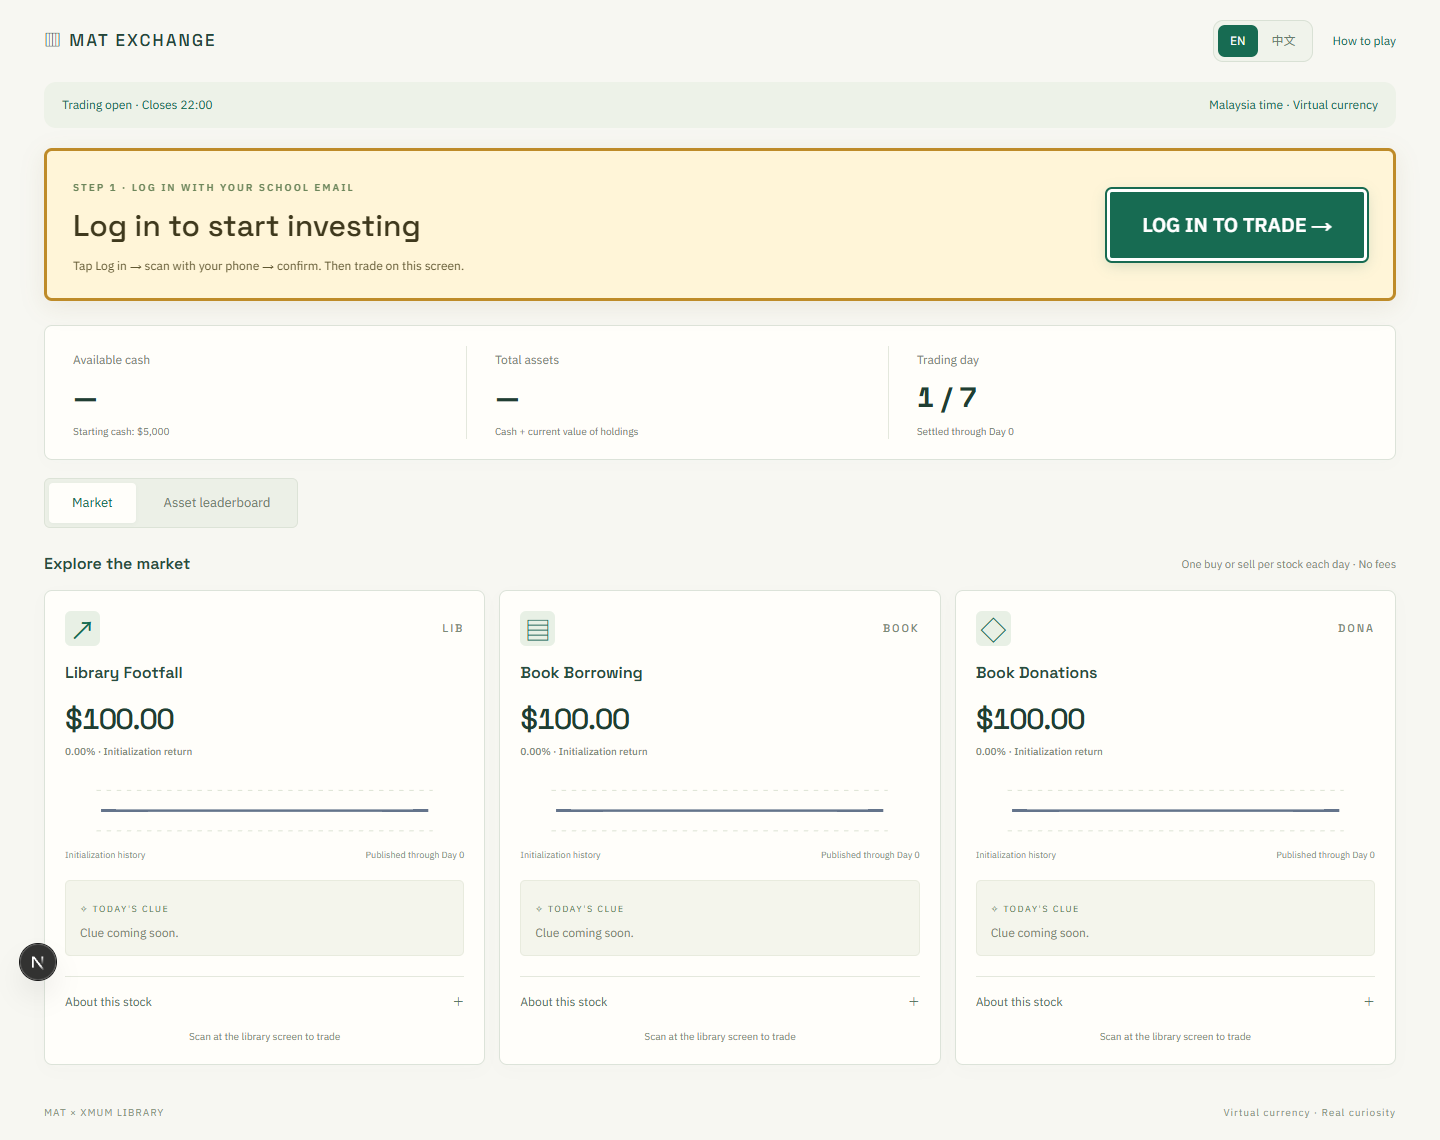
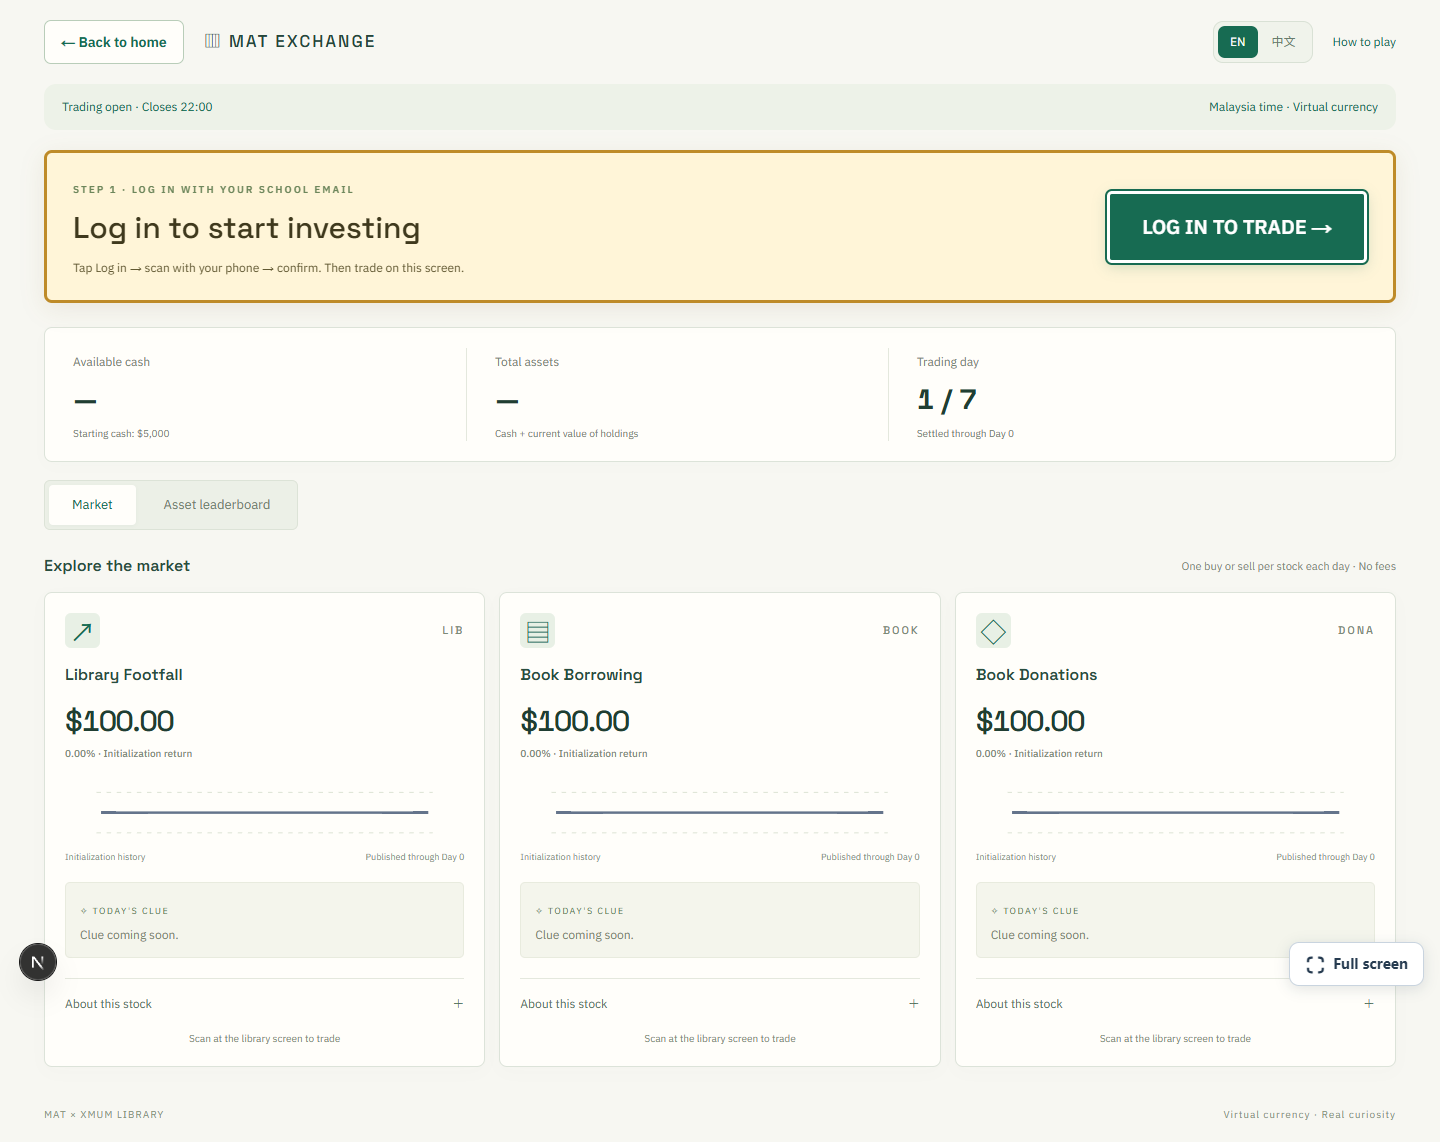
feat: Enhance market navigation and idle handling with new features and improvements

diff --git a/src/app/stock-market/live-market.tsx b/src/app/stock-market/live-market.tsx
@@ -33,12 +33,16 @@ export default function LiveMarket({ onReturnHome }: { onReturnHome?: () => void
   const [quantity, setQuantity] = useState("1");
   const [receipt, setReceipt] = useState<MarketTrade | null>(null);
   const [resultSeconds, setResultSeconds] = useState(10);
+  const [pairSeconds, setPairSeconds] = useState(60);
   const dialog = useRef<HTMLDialogElement>(null);
   const sessionId = useRef<string | null>(null);
   const pairedSession = useRef<string | null>(null);
   const inFlight = useRef(false);
   const refreshInFlight = useRef(false);
   const revision = useRef(0);
+  const pairingScreen = useRef(false);
+  const pairDeadline = useRef<number | null>(null);
+  const finishing = useRef(false);
   const mounted = useRef(false);
   const ready = useRef(false);
   const bootstrap = useRef<Promise<unknown> | null>(null);
@@ -59,6 +63,8 @@ export default function LiveMarket({ onReturnHome }: { onReturnHome?: () => void
       if (!mounted.current || !ready.current || currentRevision !== revision.current) return;
       setState(value); setConnected(true);
       if (value.portfolio) {
+        pairingScreen.current = false;
+        pairDeadline.current = null;
         if (pairedSession.current !== value.portfolio.sessionId) {
           pairedSession.current = value.portfolio.sessionId;
           // Scanning on a phone is not a touch on the trading screen.
@@ -69,6 +75,9 @@ export default function LiveMarket({ onReturnHome }: { onReturnHome?: () => void
         setPair(null);
         setModal(current => current === "pair" ? null : current);
       } else if (value.pairing !== "waiting") {
+        // Keep an expired pairing on screen until the bounded pairing timeout
+        // handles cleanup/navigation, rather than silently closing its dialog.
+        if (pairingScreen.current) return;
         if (sessionId.current) {
           setError(pairedSession.current ? "Your session ended. Log in again to continue." : "This login code is no longer active. Tap Log in to try again.");
           sessionId.current = null;
@@ -99,6 +108,10 @@ export default function LiveMarket({ onReturnHome }: { onReturnHome?: () => void
     else if (!modal) dialog.current?.close();
   }, [modal]);
   const finish = useCallback(async () => {
+    if (finishing.current) return;
+    finishing.current = true;
+    pairingScreen.current = false;
+    pairDeadline.current = null;
     // Remove personal information immediately even if the network is unavailable.
     ready.current = false;
     revision.current += 1;
@@ -109,13 +122,15 @@ export default function LiveMarket({ onReturnHome }: { onReturnHome?: () => void
     try { await request({ action: "end", session_id: id }); sessionId.current = null; } catch { /* server session still expires after 15 minutes */ }
     if (returnHome.current) returnHome.current(); else router.replace("/");
   }, [request, router]);
-  const cancelPair = useCallback(async (expired = false) => {
+  const cancelPair = useCallback(async () => {
     if (inFlight.current) return;
     inFlight.current = true; setBusy(true);
     revision.current += 1;
+    pairingScreen.current = false;
+    pairDeadline.current = null;
     const id = sessionId.current;
     setPair(null); setModal(null);
-    setError(expired ? "QR expired. Tap Log in to get a new code." : "");
+    setError("");
     window.dispatchEvent(new Event("mathweek:activity"));
     try { await request({ action: "end", session_id: id }); sessionId.current = null; }
     catch (e) { setError(e instanceof Error ? e.message : "Unable to cancel. Please retry."); }
@@ -123,10 +138,15 @@ export default function LiveMarket({ onReturnHome }: { onReturnHome?: () => void
   }, [request]);
   useEffect(() => {
     if (modal !== "pair" || !pair) return;
-    // Allow the final confirmation poll to finish before expiring the QR.
-    const timer = setTimeout(() => void cancelPair(true), Math.max(0, Date.parse(pair.expiresAt) - Date.now()) + 3000);
-    return () => clearTimeout(timer);
-  }, [modal, pair, cancelPair]);
+    const timer = setInterval(() => {
+      const deadline = pairDeadline.current;
+      if (deadline === null) return;
+      const left = Math.max(0, Math.ceil((deadline - Date.now()) / 1000));
+      setPairSeconds(left);
+      if (!left) { clearInterval(timer); void finish(); }
+    }, 250);
+    return () => clearInterval(timer);
+  }, [modal, pair, finish]);
   const portfolio = connected ? state?.portfolio : null;
   const used = portfolio?.trades.filter(trade => trade.day === state?.day).map(trade => trade.code) ?? [];
   useEffect(() => {
@@ -143,10 +163,19 @@ export default function LiveMarket({ onReturnHome }: { onReturnHome?: () => void
     if (inFlight.current) return;
     inFlight.current = true; setBusy(true); setError("");
     revision.current += 1;
+    pairingScreen.current = true;
+    pairDeadline.current = null;
     setPair(null); setModal("pair");
     window.dispatchEvent(new Event("mathweek:activity"));
-    try { const result = await request({ action: "pair" }); sessionId.current = result.sessionId; setPair(result); }
-    catch (e) { setModal(null); setError((e as Error).message); }
+    try {
+      const result = await request({ action: "pair" });
+      sessionId.current = result.sessionId;
+      const expiresAt = new Date(Math.min(Date.parse(result.expiresAt), Date.now() + 60000)).toISOString();
+      pairDeadline.current = Date.parse(expiresAt);
+      setPairSeconds(Math.max(0, Math.ceil((Date.parse(expiresAt) - Date.now()) / 1000)));
+      setPair({ ...result, expiresAt });
+    }
+    catch (e) { pairingScreen.current = false; setModal(null); setError((e as Error).message); }
     finally { inFlight.current = false; setBusy(false); }
   };
   const openOrder = (code: Code, side: "buy" | "sell") => {
@@ -181,7 +210,7 @@ export default function LiveMarket({ onReturnHome }: { onReturnHome?: () => void
   };
   const status = !connected ? t("Connecting to market…", "正在连接市场…") : state?.phase === "open" ? t(`Trading open · Closes ${state.close}`, `交易中 · ${state.close}截止`) : state?.phase === "ended" ? t("Market closed · Final standings", "活动结束 · 最终排名") : state?.phase === "paused" ? t("Trading temporarily paused", "交易暂时暂停") : state?.phase === "upcoming" ? t("Trading opens at 09:00", "09:00开始交易") : t("Trading closed · Prices settled", "今日交易结束 · 已结算");
   return <div className={`${s.page} ${s.embedded}`}>
-    <IdleRedirect seconds={60} enabled={modal !== "pair" && !busy} onIdle={() => void finish()} />
+    <IdleRedirect seconds={60} onIdle={() => void finish()} />
     <main className={s.main}>
       <div className={s.terminalTop}><nav aria-label={t("Market navigation", "市场导航")}><button type="button" className={s.homeButton} disabled={busy} onClick={() => void finish()}>{t("← Back to home", "← 返回主页")}</button></nav><span className={s.terminalBrand}>▥ MAT EXCHANGE</span><div className={s.languages}><button aria-pressed={!zh} onClick={() => setZh(false)}>EN</button><button aria-pressed={zh} onClick={() => setZh(true)}>中文</button></div><button className={s.quiet} onClick={() => setModal("guide")}>{t("How to play", "玩法说明")}</button></div>
       <div className={s.terminalStatus}><span>{status}</span><span>{t("Malaysia time · Virtual currency", "马来西亚时间 · 虚拟资金")}</span></div>
@@ -219,7 +248,7 @@ export default function LiveMarket({ onReturnHome }: { onReturnHome?: () => void
     <dialog ref={dialog} className={`${s.modal} ${modal === "pair" ? s.pairModal : ""}`} onClose={event => event.stopPropagation()} onCancel={event => { event.preventDefault(); event.stopPropagation(); if (busy) return; if (modal === "pair") void cancelPair(); else setModal(null); }}>
       <button className={s.close} disabled={busy} aria-label={t("Close", "关闭")} onClick={() => modal === "pair" ? void cancelPair() : setModal(null)}>×</button>
       {modal === "guide" && <><span className={s.eyebrow}>MAT STOCK MARKET</span><h2>{t("Start small. Think ahead.", "从观察开始。")}</h2><p>{t("Start with $5,000 virtual cash and no holdings. Read the clues, buy or sell at the library, and compare your total assets over seven days.", "每人初始$5,000、零持仓。阅读提示，在图书馆买卖，七天后按总资产排名。")}</p><ol><li>{t("One buy or sell per stock each day. Whole units only, no fees.", "每只股票每天一次买入或卖出，整数单位，无手续费。")}</li><li>{t("No borrowing, short selling or transfers. Doing nothing keeps your holdings.", "不可透支、做空或转账，不操作则继续持有。")}</li><li>{t("Weekdays 09:00–22:00; weekends 09:00–17:00, Malaysia time.", "马来西亚时间工作日09:00–22:00、周末09:00–17:00。")}</li><li>{t("Prices update after closing. Market assets are separate from activity points.", "闭馆后结算变价，市场资产与活动积分分开。")}</li><li>{t("Tap Finish & sign out before leaving the screen.", "离开屏幕前请点击结束并退出。")}</li></ol><button className={s.primary} onClick={() => setModal(null)}>{t("Got it", "明白了")}</button></>}
-      {modal === "pair" && <><h2>{t("Scan to connect", "扫码连接现场屏幕")}</h2>{pair ? <><p>{t("Scan with your phone, sign in with your school email, then confirm. Your code is valid for two minutes.", "手机扫码，使用学校邮箱登录并确认。二维码两分钟内有效。")}</p><Image src={pair.qr} alt="Scan to connect your school account" width={320} height={320} unoptimized /><p role="status">{t("Waiting for confirmation on your phone…", "等待手机确认…")}</p><button className={s.quiet} disabled={busy} onClick={() => void start()}>{t("Get a new code", "重新生成二维码")}</button></> : <p role="status">{t("Preparing your login QR…", "正在准备登录二维码…")}</p>}</>}
+      {modal === "pair" && <><h2>{t("Scan to connect", "扫码连接现场屏幕")}</h2>{pair ? <><p>{t("Scan with your phone, sign in with your school email, then confirm within 60 seconds.", "手机扫码，使用学校邮箱登录，并在60秒内确认连接。")}</p><Image src={pair.qr} alt="Scan to connect your school account" width={320} height={320} unoptimized /><p role="status">{t("Waiting for confirmation on your phone…", "等待手机确认…")}</p><p className={s.pairCountdown} role="timer">{t(`Returning home in ${pairSeconds}s`, `${pairSeconds}秒后返回主页`)}</p><button className={s.quiet} disabled={busy} onClick={() => void start()}>{t("Get a new code", "重新生成二维码")}</button></> : <p role="status">{t("Preparing your login QR…", "正在准备登录二维码…")}</p>}</>}
       {modal === "trade" && order && <><span className={s.eyebrow}>{t("CONFIRM YOUR ORDER", "确认交易")}</span><h2>{order.side === "buy" ? t("Buy", "买入") : t("Sell", "卖出")} {order.code}</h2><label className={s.quantity}>{t("Quantity (whole units)", "数量（整数）")}<input autoFocus type="number" min="1" step="1" disabled={busy} value={quantity} onChange={e => { setQuantity(e.target.value); if (order) setOrder({ ...order, request_id: crypto.randomUUID() }); }} /></label><div className={s.row}><span>{t("Price per unit", "每单位价格")}</span><b>{money(order.price)}</b></div><div className={s.row}><span>{t("Total · No fees", "总金额 · 无手续费")}</span><b>{money(total)}</b></div><div className={s.row}><span>{t("Cash after trade", "交易后现金")}</span><b>{portfolio ? money(portfolio.cash + (order.side === "buy" ? -total : total)) : "—"}</b></div><div className={s.row}><span>{t("Units after trade", "交易后持仓")}</span><b>{portfolio && valid ? portfolio.holdings[order.code] + (order.side === "buy" ? units : -units) : "—"}</b></div><p className={s.notice}>{error || (!valid ? t("Enter a whole number of at least 1.", "请输入至少1的整数。") : !canTrade ? t("Trading is unavailable, or cash / holdings are insufficient.", "当前不可交易，或现金／持仓不足。") : t("Once confirmed, you cannot trade this stock again today.", "确认后，今天不能再买卖这只股票。"))}</p><button className={s.primary} disabled={!canTrade || busy} onClick={() => void submit()}>{busy ? t("Submitting…", "提交中…") : t("Confirm trade", "确认成交")}</button><button className={s.quiet} disabled={busy} onClick={() => setModal(null)}>{t("Cancel", "取消")}</button></>}
       {modal === "result" && receipt && <><div className={s.successIcon} aria-hidden="true">✓</div><h2>{t("Trade successful", "交易成功")}</h2><p>{t("Saved to your account. No further confirmation needed.", "已保存到账户，无需再次确认。")}</p><div className={s.row}><span>{receipt.code} · {receipt.side === "buy" ? t("Bought", "买入") : t("Sold", "卖出")} {receipt.quantity}</span><b>{money(receipt.amount)}</b></div><div className={s.row}><span>{t("Cash now", "剩余现金")}</span><b>{money(receipt.cash_after)}</b></div><div className={s.row}><span>{t(`${receipt.code} units now`, `${receipt.code}当前持仓`)}</span><b>{receipt.units_after}</b></div><p className={s.nextStep}>{used.length < 3 ? t(`You can trade ${3 - used.length} other stocks today, or finish now.`, `今天还可交易其他${3 - used.length}只股票，也可以现在结束。`) : t("Today's trades are complete. Come back on the next trading day.", "今日交易已完成，下个游戏日可再来参与。")}</p><button className={s.primary} onClick={() => void finish()}>{t("Finish & sign out", "结束并退出")}</button>{used.length < 3 && <button className={s.quiet} onClick={() => setModal(null)}>{t("Trade another stock", "交易另一只股票")}</button>}{used.length >= 3 && <p role="timer">{t(`Returning home in ${resultSeconds}s`, `${resultSeconds}秒后返回主页`)}</p>}</>}
     </dialog>

diff --git a/src/app/main-hub.tsx b/src/app/main-hub.tsx
@@ -4,6 +4,7 @@ import { MarketPreview } from "@/components/market-preview";
 import Link from "next/link";
 import { useEffect, useLayoutEffect, useRef, useState } from "react";
 import { WeekShell } from "@/components/week-shell";
+import { IdleRedirect } from "@/components/idle-redirect";
 import { useLeaderboard } from "@/lib/leaderboard/use-leaderboard";
 import { DIGITAL_DAYS } from "@/lib/digital-games";
 import { todayInEventTimezone } from "@/lib/event-date";
@@ -82,6 +83,7 @@ export function MainHub({ eventDate }: { eventDate: string }) {
     return <div className="hub-ranking"><span className="week-eyebrow"><span className="live-dot" /> LIVE SCORES</span>{large && <h3>Math Week&apos;s top players</h3>}<div className="hub-ranking-rows">{loading ? <p role="status">Loading scores…</p> : rows.length ? rows.slice(0, large ? 5 : 3).map((row, i) => <div key={row.key}><span className="hub-rank">{String(i + 1).padStart(2, "0")}</span><span className="hub-player" title={row.label}>{row.label}</span><strong><LiveScore points={row.total_points} /><small> pts</small></strong></div>) : <p>Scores will appear as students play.</p>}</div><span className="hub-action">Full leaderboard →</span></div>;
   }
   return <WeekShell kioskHome>
+    <IdleRedirect seconds={60} enabled={paused} onIdle={() => setPaused(false)} />
     <div className="hub-toolbar"><div><span className="live-dot" /> ALL OF MATH WEEK, AT A GLANCE</div><div><span>{paused ? "Paused" : `Next display in ${remaining}s`}</span><button onClick={() => setPaused(value => !value)}>{paused ? "Resume" : "Pause"}</button></div></div>
     <section ref={windows} className="hub-windows" aria-label="Math Week activities">
       {PANELS.map(panel => {

diff --git a/src/app/stock-market/market.module.css b/src/app/stock-market/market.module.css
@@ -37,6 +37,7 @@
 .tradeSaved { display:flex; flex-wrap:wrap; gap:8px 18px; padding:14px 18px; margin-bottom:18px; background:#e5f4e8; border:2px solid #3d8d58; border-radius:8px; color:#215a33; }
 .successIcon { display:grid; place-items:center; width:64px; height:64px; margin:0 auto 12px; border-radius:50%; color:#fff; background:#218653; font-size:40px; font-weight:800; }
 .nextStep { padding:14px; background:#eff5e9; border-radius:8px; font-weight:600; }
+.pairModal .pairCountdown { margin:12px 0; padding:12px; border-radius:8px; background:#fff0ce; color:#815810; font-size:22px; font-weight:800; font-variant-numeric:tabular-nums; }
 .homeButton { min-height:44px; padding:10px 16px; border:1px solid #b9cdb9; border-radius:7px; background:#fffefa; color:#176b52; font-size:14px; font-weight:700; white-space:nowrap; }
 .homeButton:hover:not(:disabled) { background:#e9f0e3; }
 @media(max-width:760px) { .terminalTop { flex-wrap:wrap; gap:12px; } }

diff --git a/src/components/idle-redirect.tsx b/src/components/idle-redirect.tsx
@@ -49,7 +49,7 @@ export function IdleRedirect({ seconds = 60, enabled = true, onIdle }: {
     else notice.current?.close();
   }, [remaining]);
   if (!enabled) return null;
-  return <dialog ref={notice} className="idle-notice idle-dialog" aria-label="Inactivity warning / 闲置提醒" onCancel={event => { event.preventDefault(); window.dispatchEvent(new Event("mathweek:activity")); }}>
+  return <dialog ref={notice} className="idle-notice idle-dialog" aria-label="Inactivity warning / 闲置提醒" onCancel={event => { event.preventDefault(); event.stopPropagation(); window.dispatchEvent(new Event("mathweek:activity")); }}>
     <span>Returning home in <strong>{remaining ?? 0}s</strong></span>
     <button className="week-button" onClick={() => window.dispatchEvent(new Event("mathweek:activity"))}>Stay here</button>
   </dialog>;

diff --git a/output/stock_market/股票市场演练与上线说明.md b/output/stock_market/股票市场演练与上线说明.md
@@ -7,8 +7,8 @@
 - 玩家页面采用正式市场界面，默认英文，右上角可切中文；不再显示共享演示账号、练习订单或模拟收市按钮。
 - 首页股票入口直接进入 `/stock-market`，不再使用外层嵌入小窗。未登录时，顶部醒目显示扫码登录条和学校邮箱提示。
 - 每位玩家学校账号下独立保存$5,000初始现金、零持仓、交易和资产；数据保存在Supabase，不使用本地演示资产计分。
-- 现场屏幕生成两分钟有效的一次性配对码；手机登录学校账号、设置昵称、确认连接后，只授权对应现场屏幕买卖。
-- 交易会话最长15分钟；正常交易时60秒无操作退出。扫码等待按二维码两分钟有效期单独处理，重新生成后重新计时；取消或二维码失效留在市场页，不直接返回主页。全部三只股票交易完成后，显示10秒返回主页倒计时。
+- 现场屏幕生成一次性配对码；玩家在60秒内用手机登录学校账号、设置昵称并确认连接，只授权对应现场屏幕买卖。
+- 交易会话最长15分钟；普通页面及玩法／交易确认弹窗60秒无操作返回主页，提前10秒提醒。扫码窗口显示醒目的60秒实时倒计时，到时撤销配对并返回主页；手机确认连接后重新获得完整60秒操作时间。主动取消扫码仍留在市场。全部三只股票交易完成后，显示10秒返回主页倒计时。
 - 刷新或重新打开市场先撤销旧会话，再显示数据，避免恢复上一位玩家的资产。结束退出会清除当前屏幕显示并撤销会话；取消扫码只撤销当前配对。断网时服务器会话仍有到期保护。
 - 登录入口使用顶部醒目的 **LOG IN TO TRADE →** 大按钮；交易成功会显示“已保存，无需再次确认”、剩余现金、持仓，以及继续交易或结束退出的选择。关闭结果弹窗后仍显示“Trade saved”。
 - 登录、取消和成交时忽略此前发出的旧行情响应；行情轮询不重叠，防止慢请求覆盖新会话状态。
